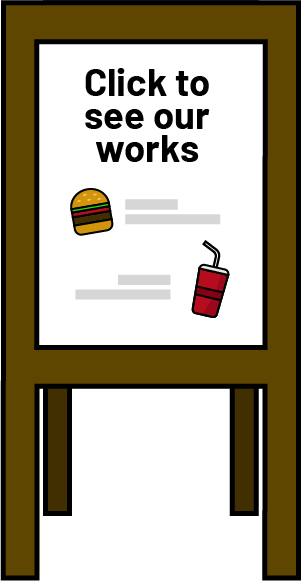
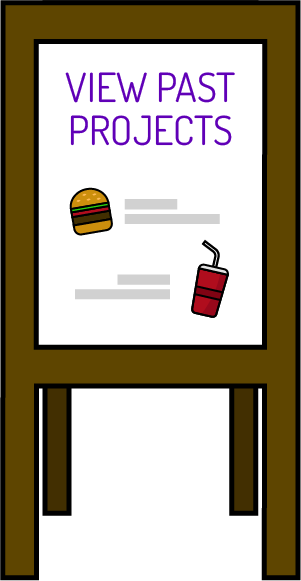
add foreground images, base clickables

diff --git a/style.css b/style.css
@@ -99,3 +99,198 @@ img{
     justify-content: center;
     border-radius: 50%;
 }
+
+.character{
+    position:fixed;
+    top:45%;
+    left:100px;
+    /* width:20%; */
+    height:40%;
+    z-index:98;
+    pointer-events: none;
+}
+
+.foreground{
+    /* background-color: pink; */
+    position:absolute;
+    bottom:0;
+    z-index:99;
+}
+
+.foreground img{
+    width:100%;
+}
+
+.table{
+    right:0;
+    width:60%;
+    height:26%;
+}
+
+.shop{
+    /* background-color: mediumseagreen; */
+    width:45%;
+    left:0;
+    right:0;
+    height: 25.5%;
+    margin:auto;
+}
+
+.crowd{
+    /* background-color: mediumseagreen; */
+    width:115%;
+    left:-7.55%;
+    right:0;
+    height: 25%;
+    margin:auto;
+}
+
+.crowd img{
+    position:absolute;
+    top:0;
+}
+
+.speech{
+    margin-top:-2%;
+    right:2%;
+    width:20% !important;
+}
+
+.crowd img{
+    animation: 0.5s jump ease-in-out;
+    animation-direction: alternate-reverse;
+    animation-iteration-count: infinite;
+}
+
+.crowd img:nth-child(2), .crowd img:nth-child(3){
+    animation-delay:0.1s;
+}
+
+@keyframes jump {
+    from{transform: translateY(-10px)}
+    to{transform: translateY(0)}
+}
+
+.reel-box{
+    background-color: white;
+    position:absolute;
+    width:61%;
+    aspect-ratio:16/9 !important;
+    left:3.5%;
+    right:0;
+    margin:auto;
+    /* height:30%; */
+    top:6%;
+    z-index:99;
+    /* opacity:0.5; */
+    display: flex;
+    align-items: center;
+    justify-content: center;
+    border:2.5px solid black;
+}
+
+.reel-box img, .clients .board{
+    position: absolute;
+    width:100%;
+    top:0;
+    z-index:-2;
+}
+
+button{
+    appearance: none;
+    -webkit-appearance: none;
+    box-sizing: border-box;
+    border:2px solid black;
+    padding:15px 35px;
+    border-radius:15px;
+    background-color:#8024E5;
+    color:white;
+    position: relative;
+}
+
+button::before{
+    content:'';
+    position:absolute;
+    top:25%;
+    left:-2px;
+    width:calc(100% + 4px);
+    height:100%;
+    background-color:#5F02C7;
+    border-radius:15px;
+    box-sizing: border-box;
+    border:2px solid black;
+    z-index:-1;
+}
+
+button:hover{
+    transform: translateY(15%);
+    z-index:1 !important;
+    cursor: pointer;
+}
+
+button:hover::before{
+    opacity:0;
+}
+
+.clients{
+    /* background-color: mediumseagreen; */
+    width:60%;
+    left:-4%;
+    height: 37%;
+}
+
+#client-logos{
+    /* background-color: white; */
+    position:absolute;
+    width:84%;
+    height:53%;
+    top:27%;
+    left:0;
+    right:0;
+    margin:auto;
+    z-index:99;
+    display:flex;
+    align-items: center;
+    white-space: nowrap;
+    overflow:hidden;
+    scroll-behavior: smooth;
+}
+
+.indiv-logo{
+    /* background-color: cadetblue; */
+    min-width:20%;
+    text-align: center;
+}
+
+#client-logos img{
+    width: 65%;
+    /* height:70%; */
+    /* margin:0 5%; */
+    transition: all 0.1s ease-in-out;
+}
+
+#client-logos img:hover{
+    transform:scale(1.1) rotate(-5deg); 
+}
+
+.buttons{
+    /* background-color: pink; */
+    position:absolute;
+    width:100%;
+    height:15%;
+    top:45%;
+    display:flex;
+    justify-content: space-between;
+    align-items: center;
+    box-sizing: border-box;
+    padding: 0 2%;
+}
+
+.buttons img{
+    width:85%;
+}
+
+.buttons:hover{
+    opacity:0.8;
+    cursor:pointer;
+}

diff --git a/index.html b/index.html
@@ -9,19 +9,60 @@
 </head>
 <body>
 
+    <img src="images/character.png" class="character">
+
     <div id="container">
         <div class="box">
-            <img id="work-menu" src="images/work-menu.png" alt="">
-            <img class="bg" src="/images/bg/1.jpg" alt="">
+            <div class="foreground table">
+                <img src="https://convergenceconcepts.s3.ap-southeast-1.amazonaws.com/html/img/img-58.png">
+            </div>
+            <img id="work-menu" src="images/work-menu.png">
+            <img class="bg" src="/images/bg/1.png">
         </div>
         <div class="box">
-            <img class="bg" src="/images/bg/2.jpg" alt="">
+            <div class="foreground shop">
+                <img src="https://convergenceconcepts.s3.ap-southeast-1.amazonaws.com/html/img/img-60.png">
+            </div>
+            <img class="bg" src="/images/bg/2-3.png">
         </div>
         <div class="box">
-            <img class="bg" src="/images/bg/3.jpg" alt="">
+            <div class="foreground crowd">
+                <img src="images/crowd/1.png">
+                <img src="images/crowd/2.png">
+                <img class="speech" src="images/crowd/3.png">
+            </div>
+            <img class="bg" src="/images/bg/4.png">
         </div>
         <div class="box">
-            <img class="bg" src="/images/bg/4.jpg" alt="">
+            <img class="bg" src="/images/bg/5.png">
+        </div>
+        <div class="box">
+            <div class="reel-box">
+                <button id="play-reel">Play Reel</button>
+                <img class="bg" src="/images/bg/6.png">
+            </div>
+            <img class="bg" src="/images/bg/6.png">
+        </div>
+        <div class="box">
+            <div class="foreground clients">
+                <div id="client-logos">
+                    <div class="indiv-logo"><img src="images/dummy-logo.png"></div>
+                    <div class="indiv-logo"><img src="images/character.png"></div>
+                    <div class="indiv-logo"><img src="images/dummy-logo.png"></div>
+                    <div class="indiv-logo"><img src="images/dummy-logo.png"></div>
+                    <div class="indiv-logo"><img src="images/dummy-logo.png"></div>
+                    <div class="indiv-logo"><img src="images/character.png"></div>
+                </div>
+                <div class="buttons">
+                    <div id="prev"><img src="images/arrow-prev.png"></div>
+                    <div id="next"><img src="images/arrow-next.png"></div>
+                </div>
+                <img class="board" src="images/clients.png">
+            </div>
+            <img class="bg" src="/images/bg/7.png">
+        </div>
+        <div class="box">
+            <img class="bg" src="/images/bg/8.png">
         </div>
     </div>
 

diff --git a/script.js b/script.js
@@ -69,3 +69,24 @@ closeBtn.addEventListener("click", function(){
     popupContainer.style.display = "none";
 
 })
+
+
+const nextBtn = document.getElementById("next");
+const prevBtn = document.getElementById("prev");
+const clientLogosContainer = document.getElementById("client-logos");
+
+let slideNo = 1;
+
+nextBtn.addEventListener("click", function(){
+    slideNo++;
+    console.log(clientLogosContainer.getBoundingClientRect().width)
+    clientLogosContainer.scrollLeft = clientLogosContainer.getBoundingClientRect().width;
+})
+
+prevBtn.addEventListener("click", function(){
+    if(slideNo > 1){   
+        slideNo--;
+        console.log(clientLogosContainer.getBoundingClientRect().width)
+        clientLogosContainer.scrollLeft = -clientLogosContainer.getBoundingClientRect().width;
+    }
+   })
